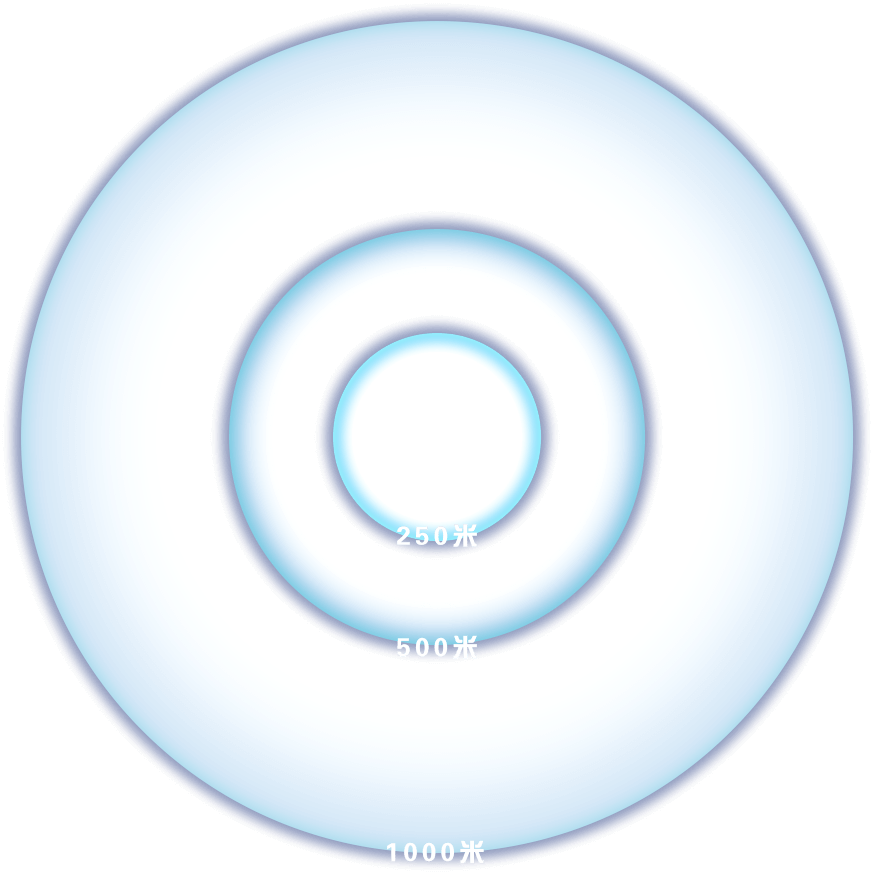
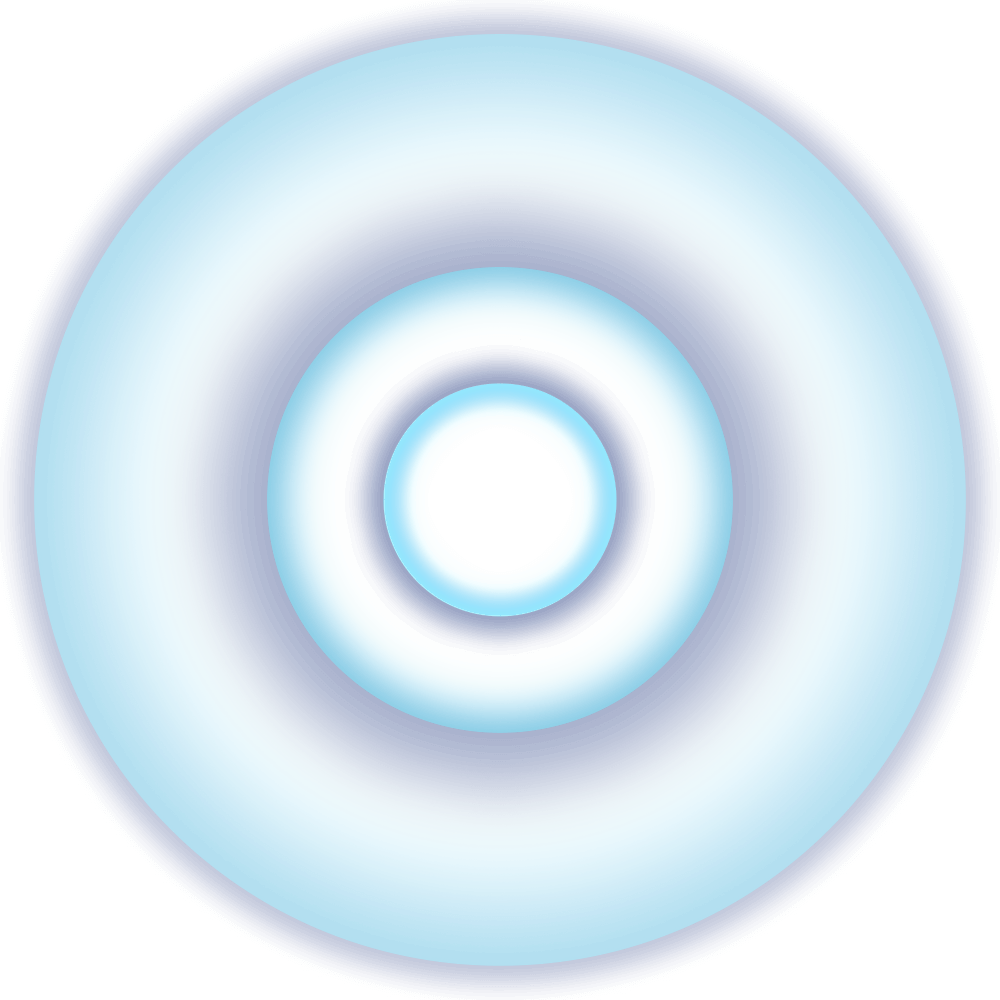
update

diff --git a/src/components/sourcelayer/extraModel/AroundSourceAnalyse/AroundSourceAnalyseDraw.js b/src/components/sourcelayer/extraModel/AroundSourceAnalyse/AroundSourceAnalyseDraw.js
@@ -1,18 +1,21 @@
 import { getIserverFields } from "api/iServerAPI";
 const _COLLECTION_KEY_ = "eventAround";
-const _ENTITY_ID_ = "aroundSourceAnalyseCircle";
+const _ENTITY_CIRCLE_ID_ = "aroundSourceAnalyseCircle";
+const _ENTITY_CIRCLE_RANGE_ID_ = "aroundSourceAnalyseRange"
+const _ENTITY_CIRCLE_RANGE_ = [250, 500, 1000]
+const _ENTITY_METER_ID_ = _ENTITY_CIRCLE_RANGE_.map(v => `aroundSourceAnalyseMeter_${v}`)
 /**
  * 地图画点
  * @param {*} param0 
  */
-export const aroundSourceAnalyseDraw = ({ key, list, title, dataset }) => {
+export const aroundSourceAnalyseDraw = ({ key, list, title, node }) => {
     const KEY = `${_COLLECTION_KEY_}_${key}`;
     list.length &&
         list.map((v) => {
             const position = Cesium.Cartesian3.fromDegrees(+v.lng, +v.lat, 4);
             const smid = v.originalData.fieldValues[0]
-            initFeatureMap(dataset, KEY, v, smid);
-            window.labelMap[KEY].add({
+            initFeatureMap(node, KEY, v, smid);
+            !node.hiddenLabel && window.labelMap[KEY].add({
                 id: `label@${smid}@${KEY}@location`,
                 text: v.resourceName,
                 fillColor: Cesium.Color.WHITE,
@@ -47,33 +50,54 @@ export const aroundSourceAnalyseDraw = ({ key, list, title, dataset }) => {
  */
 export const aroundSourceAnalyseCircle = (lng, lat, distance) => {
     //  去圆 重复去
-    window.earth.entities.removeById(_ENTITY_ID_);
+    window.earth.entities.removeById(_ENTITY_CIRCLE_ID_);
     const circleEntity = new Cesium.Entity({
         position: Cesium.Cartesian3.fromDegrees(lng, lat, 0),
         ellipse: {
             semiMinorAxis: distance,
             semiMajorAxis: distance,
             height: 12,
-            // material: Cesium.Color.WHITE.withAlpha(0.1),
             material: new Cesium.ImageMaterialProperty({
                 image: '/static/images/common/range.png',
                 transparent: true
             })
-            // outline: true,
-            // outlineWidth: 3,
-            // outlineColor: Cesium.Color.WHITE,
         },
-        name: _ENTITY_ID_,
-        id: _ENTITY_ID_,
+        name: _ENTITY_CIRCLE_ID_,
+        id: _ENTITY_CIRCLE_ID_,
     });
     window.earth.entities.add(circleEntity);
+    //  去label 重复去
+    if (window.labelMap[_ENTITY_CIRCLE_RANGE_ID_]) {
+        window.labelMap[_ENTITY_CIRCLE_RANGE_ID_].removeAll();
+    }
+    window.labelMap[_ENTITY_CIRCLE_RANGE_ID_] = window.earth.scene.primitives.add(
+        new Cesium.LabelCollection()
+    );
+    _ENTITY_CIRCLE_RANGE_.map((v, i) => {
+        const position = Cesium.Cartesian3.fromDegrees(lng, lat - 0.0000088 * v, 10);
+        window.labelMap[_ENTITY_CIRCLE_RANGE_ID_].add({
+            id: _ENTITY_METER_ID_[i],
+            text: `${v} 米`,
+            fillColor: Cesium.Color.WHITE,
+            outlineColor: Cesium.Color.BLACK,
+            style: Cesium.LabelStyle.FILL_AND_OUTLINE,
+            font: "12px",
+            scale: 1,
+            outlineWidth: 4,
+            showBackground: true,
+            distanceDisplayCondition: new Cesium.DistanceDisplayCondition(0, 10000),
+            disableDepthTestDistance: Number.POSITIVE_INFINITY,
+            position,
+        });
+    });
 }
 
 /**
  * 清除圈
  */
 export const aroundSourceAnalyseCircleClear = () => {
-    window.earth.entities.removeById(_ENTITY_ID_);
+    window.earth.entities.removeById(_ENTITY_CIRCLE_ID_);
+    window.labelMap[_ENTITY_CIRCLE_RANGE_ID_].removeAll();
 }
 
 /**

diff --git a/src/components/sourcelayer/commonFrame/Popups/tools/PathTools.js b/src/components/sourcelayer/commonFrame/Popups/tools/PathTools.js
@@ -27,22 +27,22 @@ const drawPathWithLine = (points) => {
             material: new Cesium.PolylineArrowMaterialProperty(Cesium.Color.RED), //体会编码，下面的覆盖上面,material对应了一个实例
         }),
     });
-    points.map(({ x, y }, i) => {
-        const position = Cesium.Cartesian3.fromDegrees(
-            parseFloat(x),
-            parseFloat(y),
-            10
-        );
-        i < points.length - 1 && window.billboardMap["pathRoute_analyse_points"].add({
-            id: "pathRoute_points_" + i,
-            pixelSize: 6,
-            color: Cesium.Color.RED,
-            outlineColor: Cesium.Color.YELLOW,
-            outlineWidth: 3,
-            disableDepthTestDistance: Number.POSITIVE_INFINITY,
-            position,
-        });
-    });
+    // points.map(({ x, y }, i) => {
+    //     const position = Cesium.Cartesian3.fromDegrees(
+    //         parseFloat(x),
+    //         parseFloat(y),
+    //         10
+    //     );
+    //     i < points.length - 1 && window.billboardMap["pathRoute_analyse_points"].add({
+    //         id: "pathRoute_points_" + i,
+    //         pixelSize: 6,
+    //         color: Cesium.Color.RED,
+    //         outlineColor: Cesium.Color.YELLOW,
+    //         outlineWidth: 3,
+    //         disableDepthTestDistance: Number.POSITIVE_INFINITY,
+    //         position,
+    //     });
+    // });
 }
 
 /**
@@ -77,7 +77,7 @@ const drawLabelWithCenter = ({ x, y }, length) => {
  * 清除导航路径
  */
 export const clearPath = () => {
-    window.billboardMap["pathRoute_analyse_points"].removeAll();
+    // window.billboardMap["pathRoute_analyse_points"].removeAll();
     window.labelMap["pathRoute_analyse_labels"].removeAll();
     window.earth.entities.remove(window.billboardMap["pathRoute_analyse_lines"]);
 }

diff --git a/src/components/sourcelayer/layerHub/SearchBox/SearchEvent.vue b/src/components/sourcelayer/layerHub/SearchBox/SearchEvent.vue
@@ -42,6 +42,7 @@
 <script>
 import { mapGetters, mapActions } from "vuex";
 import { CESIUM_TREE_EXTRA_DATA } from "config/server/sourceTreeOption";
+import { arrayCompareWithParam } from "common/js/util";
 
 export default {
   name: "SearchEvent",
@@ -90,11 +91,15 @@ export default {
       if (!this.searchBoxVisible) return;
       const featureMap = window.featureMap[this.forceNode.id];
       // const withExtraData = this[this.forceNode.withExtraData];
-      const allSearchList = [];
+      let allSearchList = [];
       for (let key in featureMap) {
         const item = window.featureMap[this.forceNode.id][key];
-        allSearchList.push(item);
+        const { x, y } = item.geometry;
+        if (x <= 121.408 && x >= 119.407 && y <= 28.692 && y >= 27.059) {
+          allSearchList.push(item);
+        }
       }
+      allSearchList = allSearchList.sort(arrayCompareWithParam("eventTime")).reverse();
       this.extraSearchList = this.searchText
         ? allSearchList.filter((item) => ~item.name.indexOf(this.searchText))
         : allSearchList;

diff --git a/src/components/sourcelayer/layerHub/TreeDrawTool.js b/src/components/sourcelayer/layerHub/TreeDrawTool.js
@@ -24,8 +24,8 @@ const labelConfig = {
 }
 //  图像配置
 const billboardConfig = {
-  width: 34,
-  height: 34,
+  width: 30,
+  height: 30,
   disableDepthTestDistance: Number.POSITIVE_INFINITY,
 }
 
@@ -187,7 +187,7 @@ export const treeDrawEventTool = (context, { result }, node, fn) => {
       name,
       attributes: v.attributes,
       geometry: v.geometry,
-      // fix_data: v.attributes
+      eventTime: v.attributes.eventTime,
       fix_data: fixAttributesByEvent(v.attributes, node.event),
     }
     //  叠加
@@ -208,10 +208,6 @@ export const treeDrawEventTool = (context, { result }, node, fn) => {
       image: `/static/images/map-ico/${node.icon}${extraSuffix}.png`,
       position,
       ...billboardConfig,
-      ...(dayOff ? {
-        width: 46,
-        height: 46,
-      } : {}),
     })
   })
   fn && fn();

diff --git a/src/components/sourcelayer/extraModel/AroundSourceAnalyse/AroundSourceAnalyse.vue b/src/components/sourcelayer/extraModel/AroundSourceAnalyse/AroundSourceAnalyse.vue
@@ -85,7 +85,7 @@ import {
 import { arrayCompareWithParam } from "common/js/util";
 import { getAroundSourceAnalyse } from "@/api/layerServerAPI";
 const RANGE_DISTANCE = 1050;
-const DEFAULT_DISTANCE = 500;
+const DEFAULT_DISTANCE = 100000;
 const aroundDistance = {};
 const aroundOption = CESIUM_TREE_AROUND_ANALYSE_OPTION.children.map(
   ({ label, resourceType }) => {
@@ -171,7 +171,7 @@ export default {
             title: label,
             key: value,
             list,
-            dataset: CESIUM_TREE_AROUND_ANALYSE_OPTION.children.filter(
+            node: CESIUM_TREE_AROUND_ANALYSE_OPTION.children.filter(
               ({ resourceType }) => resourceType == value
             )[0],
           };

diff --git a/src/config/server/sourceTreeOption.js b/src/config/server/sourceTreeOption.js
@@ -160,7 +160,7 @@ const CITY_TOPIC = [
 const AROUND_ANALYSE_TOPIC = [
   { label: "医疗场所", resourceType: "medical_care", dataset: "JZJZNL_YLJH_JHCS", },
   { label: "消防站", resourceType: "fire_station", dataset: "JZJZNL_XFJYNL_XFZ" },
-  { label: "消防栓", resourceType: "fire_hydrant", dataset: "JZJZNL_XFJYNL_XFS" },
+  { label: "消防栓", resourceType: "fire_hydrant", dataset: "JZJZNL_XFJYNL_XFS", hiddenLabel: true },
   { label: "交通卡口", resourceType: "bayonet", dataset: "KaKouDianWei" },
   { label: "救援队伍", resourceType: "rescue_team", dataset: "JZJZNL_YJDW" }
 ]

diff --git a/src/components/sourcelayer/commonFrame/Popups/EventPopup.vue b/src/components/sourcelayer/commonFrame/Popups/EventPopup.vue
@@ -83,9 +83,9 @@ export default {
     };
   },
   created() {
-    window.billboardMap["pathRoute_analyse_points"] = window.earth.scene.primitives.add(
-      new Cesium.PointPrimitiveCollection()
-    );
+    // window.billboardMap["pathRoute_analyse_points"] = window.earth.scene.primitives.add(
+    //   new Cesium.PointPrimitiveCollection()
+    // );
     window.labelMap["pathRoute_analyse_labels"] = window.earth.scene.primitives.add(
       new Cesium.LabelCollection()
     );

diff --git a/src/components/sourcelayer/cesium_map.vue b/src/components/sourcelayer/cesium_map.vue
@@ -287,9 +287,9 @@ export default {
       //  水面
       // await mapRiverLayerInit("RIVER", ServiceUrl.STATIC_RIVER);
       // //  白模叠加
-      await mapBaimoLayerInit(ServiceUrl.WZBaimo_OBJ);
+      // await mapBaimoLayerInit(ServiceUrl.WZBaimo_OBJ);
       //  路灯、光源叠加
-      mapRoadLampLayerInit();
+      // mapRoadLampLayerInit();
       //  阴影
       // mapShadowInit();
       //  回调钩子
